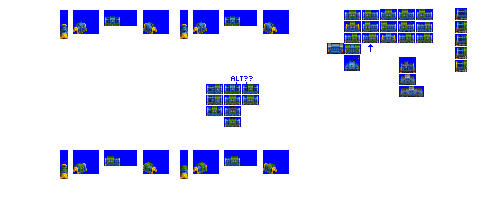
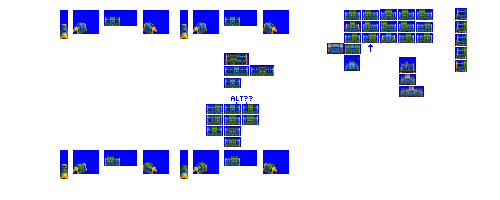
Change: WIP on locotracteur

Changed region(s): [[0.39, 0.24, 0.57, 0.75]]

diff --git a/src/vehicles/locotracteur.py b/src/vehicles/locotracteur.py
@@ -1,0 +1,30 @@
+from train import EngineConsist, DieselEngineUnit
+
+
+def main(roster_id):
+    consist = EngineConsist(
+        roster_id=roster_id,
+        id="locotracteur",
+        base_numeric_id=2960,
+        name="Locotracteur",
+        role="universal",
+        role_child_branch_num=2,
+        power=800,
+        random_reverse=True,
+        base_track_type="NG",
+        gen=3,
+        sprites_complete=False,
+    )
+
+    consist.add_unit(
+        type=DieselEngineUnit,
+        weight=30,
+        vehicle_length=6,
+        effect_z_offset=9,  # reduce smoke z position to suit NG engine height
+        spriterow_num=0,
+    )
+
+    consist.description = """ """
+    consist.foamer_facts = """ """
+
+    return consist

diff --git a/src/rosters/pony.py b/src/rosters/pony.py
@@ -75,6 +75,7 @@ from vehicles import lamia
 from vehicles import lark
 from vehicles import lemon
 from vehicles import little_bear
+from vehicles import locotracteur
 from vehicles import longwater
 from vehicles import magnum_70
 from vehicles import merlion
@@ -487,6 +488,7 @@ def main(disabled=False):
             tiny_wonder,
             pikel,
             boar_cat,
+            locotracteur,
             # ng railcars
             mumble,
             snapper,

diff --git a/src/vehicles/tiny_wonder.py b/src/vehicles/tiny_wonder.py
@@ -10,11 +10,12 @@ def main(roster_id):
         role="universal",
         role_child_branch_num=2,
         base_track_type="NG",
-        power=750,
+        power=600,
         tractive_effort_coefficient=0.3,
-        gen=2,
+        gen=1,
+        intro_date_offset=15,
         random_reverse=True,
-        sprites_complete=True,
+        sprites_complete=False,
     )
 
     consist.add_unit(
